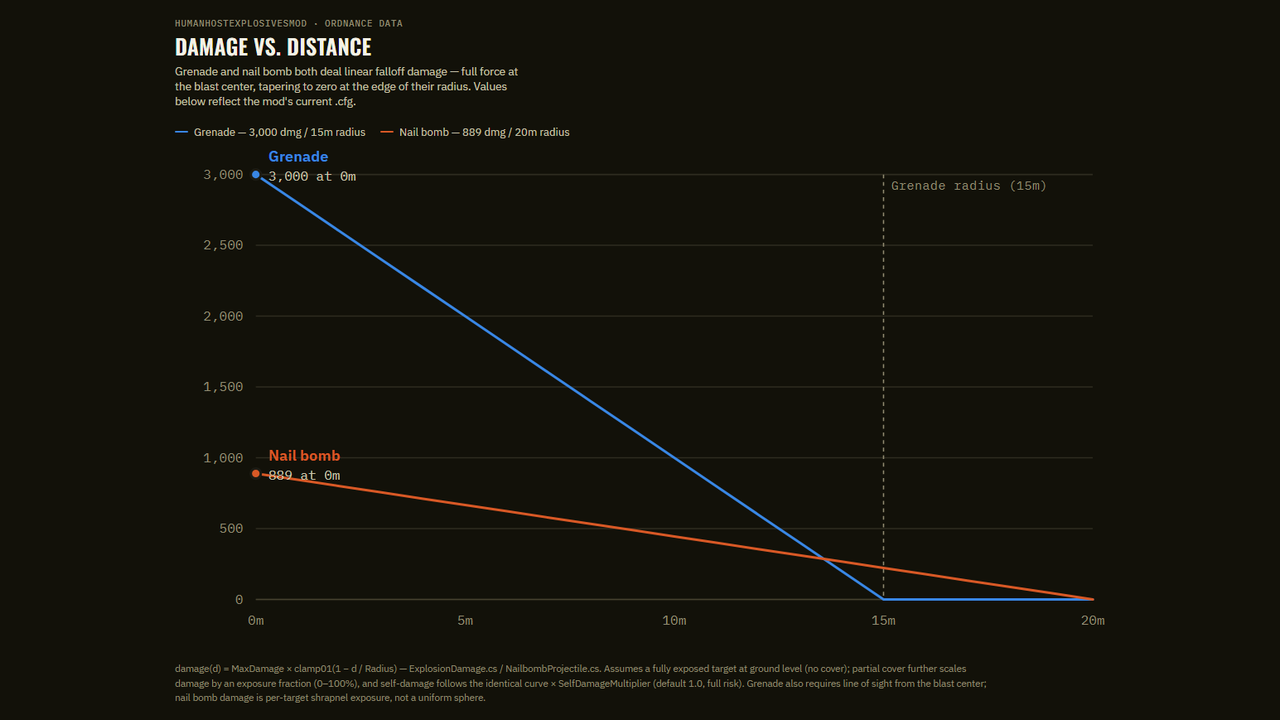
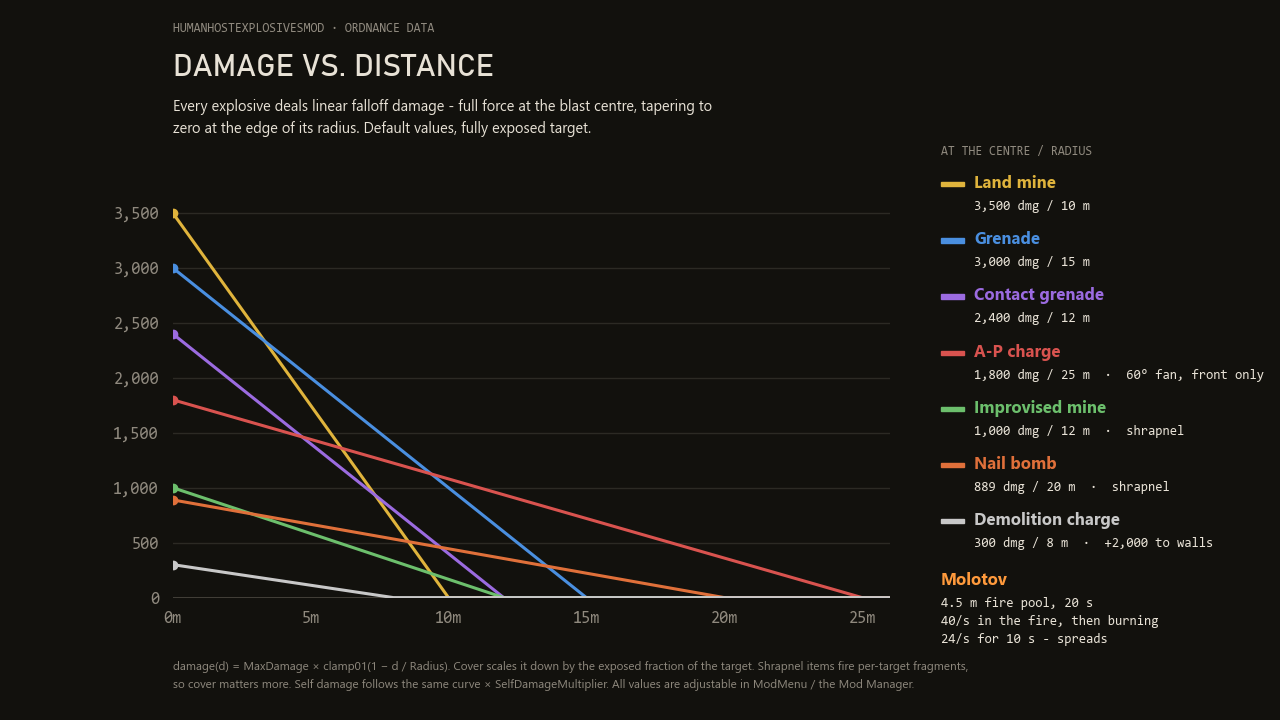
Falloff chart with all eight explosives (tools/make_falloff_chart.py)

diff --git a/tools/make_falloff_chart.py b/tools/make_falloff_chart.py
@@ -1,0 +1,98 @@
+"""Damage-vs-distance chart for every explosive (Workshop description image).
+
+Values are the defaults in Plugin.cs - keep ITEMS in step when a default changes. Every blast and
+shrapnel item uses the same linear falloff: damage(d) = MaxDamage * clamp01(1 - d / Radius)
+(ExplosionDamage.cs / Shrapnel.cs). The Molotov is a fire pool (damage per tick, not falloff), so it
+is a note rather than a line.
+
+Usage: make_falloff_chart.py <outDir>
+"""
+import os
+import sys
+
+import matplotlib
+matplotlib.use("Agg")
+import matplotlib.pyplot as plt
+
+OUT = sys.argv[1] if len(sys.argv) > 1 else "."
+
+BG = "#12110d"
+GRID = "#2c2a24"
+INK = "#e8e2d6"
+DIM = "#8f897e"
+
+# (name, max damage at 0 m, radius m, colour, note)
+ITEMS = [
+    ("Land mine", 3500, 10, "#e0b43c", ""),
+    ("Grenade", 3000, 15, "#4a8fe0", ""),
+    ("Contact grenade", 2400, 12, "#9b6be0", ""),
+    ("A-P charge", 1800, 25, "#d9534f", "60° fan, front only"),
+    ("Improvised mine", 1000, 12, "#6cbf6c", "shrapnel"),
+    ("Nail bomb", 889, 20, "#e0703a", "shrapnel"),
+    ("Demolition charge", 300, 8, "#c8c8c8", "+2,000 to walls"),
+]
+
+
+def main():
+    plt.rcParams["font.family"] = "Segoe UI"
+    fig = plt.figure(figsize=(12.8, 7.2), dpi=100, facecolor=BG)
+    ax = fig.add_axes([0.135, 0.17, 0.56, 0.58], facecolor=BG)
+
+    xmax = 26
+    for name, dmg, radius, col, note in ITEMS:
+        ax.plot([0, radius, xmax], [dmg, 0, 0], color=col, lw=2.2, solid_capstyle="round", zorder=3)
+        ax.plot([0], [dmg], "o", color=col, ms=6, zorder=4)
+
+    ax.set_xlim(0, xmax)
+    ax.set_ylim(0, 3800)
+    ax.set_xticks([0, 5, 10, 15, 20, 25])
+    ax.set_xticklabels([f"{v}m" for v in [0, 5, 10, 15, 20, 25]])
+    ax.set_yticks(range(0, 3501, 500))
+    ax.set_yticklabels([f"{v:,}" for v in range(0, 3501, 500)])
+    ax.tick_params(colors=DIM, labelsize=12, length=0, pad=10)
+    for lab in ax.get_xticklabels() + ax.get_yticklabels():
+        lab.set_fontfamily("Consolas")
+    ax.grid(axis="y", color=GRID, lw=1)
+    for s in ax.spines.values():
+        s.set_visible(False)
+    ax.axhline(0, color="#4a473f", lw=1.2)
+
+    # Header
+    fig.text(0.135, 0.955, "HUMANHOSTEXPLOSIVESMOD · ORDNANCE DATA", color=DIM, fontsize=9, fontfamily="Consolas")
+    fig.text(0.135, 0.895, "DAMAGE VS. DISTANCE", color=INK, fontsize=22, fontweight="bold", fontfamily="Bahnschrift")
+    fig.text(0.135, 0.815,
+             "Every explosive deals linear falloff damage - full force at the blast centre, tapering to\n"
+             "zero at the edge of its radius. Default values, fully exposed target.",
+             color=INK, fontsize=10.5, linespacing=1.5)
+
+    # Legend panel on the right, biggest first
+    x0, y = 0.735, 0.745
+    fig.text(x0, y + 0.04, "AT THE CENTRE / RADIUS", color=DIM, fontsize=9, fontfamily="Consolas")
+    for name, dmg, radius, col, note in ITEMS:
+        fig.patches.append(plt.Rectangle((x0, y - 0.004), 0.018, 0.006, transform=fig.transFigure, color=col))
+        fig.text(x0 + 0.026, y, name, color=col, fontsize=12, fontweight="bold", va="center")
+        fig.text(x0 + 0.026, y - 0.032, f"{dmg:,} dmg / {radius:g} m" + (f"  ·  {note}" if note else ""),
+                 color=INK, fontsize=9.5, va="center", fontfamily="Consolas")
+        y -= 0.078
+
+    # Molotov note (not a falloff weapon)
+    fig.text(x0, y - 0.005, "Molotov", color="#ff9a3c", fontsize=12, fontweight="bold", va="center")
+    fig.text(x0, y - 0.037, "4.5 m fire pool, 20 s", color=INK, fontsize=9.5, va="center", fontfamily="Consolas")
+    fig.text(x0, y - 0.062, "40/s in the fire, then burning", color=INK, fontsize=9.5, va="center", fontfamily="Consolas")
+    fig.text(x0, y - 0.087, "24/s for 10 s - spreads", color=INK, fontsize=9.5, va="center", fontfamily="Consolas")
+
+    fig.text(0.135, 0.045,
+             "damage(d) = MaxDamage × clamp01(1 − d / Radius). Cover scales it down by the exposed fraction of the target. "
+             "Shrapnel items fire per-target fragments,\n"
+             "so cover matters more. Self damage follows the same curve × SelfDamageMultiplier. "
+             "All values are adjustable in ModMenu / the Mod Manager.",
+             color=DIM, fontsize=8.5, linespacing=1.6)
+
+    os.makedirs(OUT, exist_ok=True)
+    path = os.path.join(OUT, "workshop_falloff_chart.png")
+    fig.savefig(path, facecolor=BG)
+    print(path)
+
+
+if __name__ == "__main__":
+    main()
